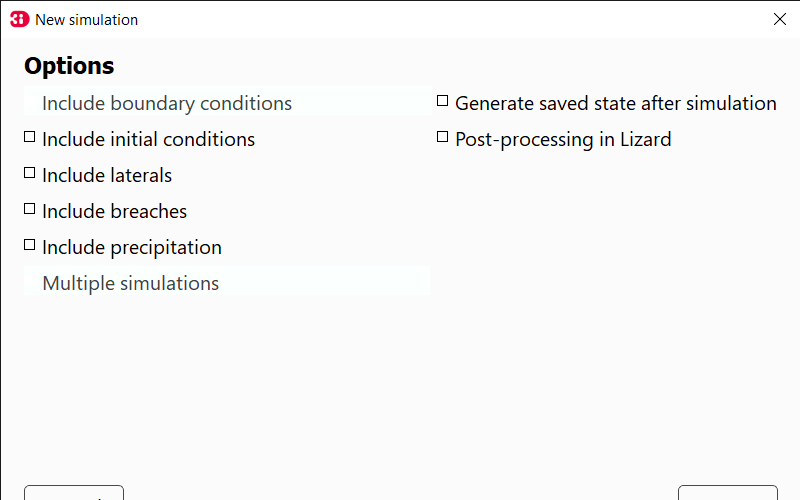
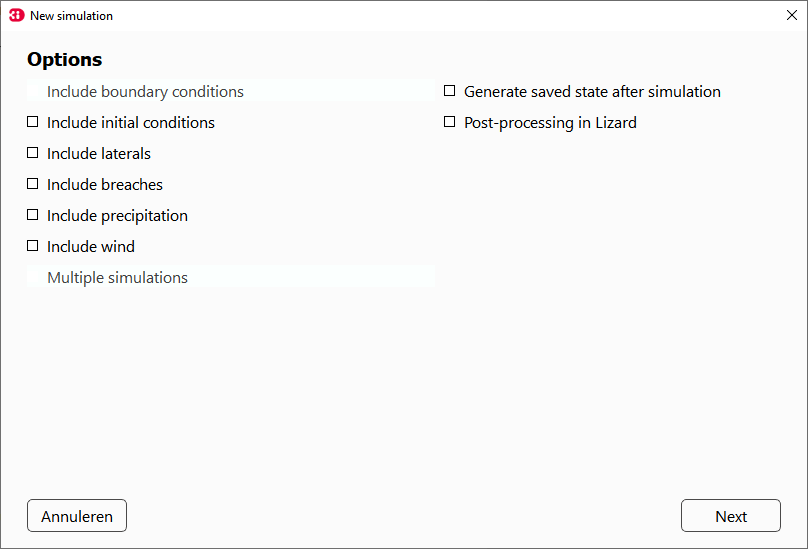
wind modeller interface beschreven voor de api client

diff --git a/source/d_qgis_plugin.rst b/source/d_qgis_plugin.rst
@@ -180,6 +180,9 @@ To select a breach to open in the model.
 **Precipitation**
 To define precipitation in the model.
 
+**Wind**
+To define wind in the model.
+
 **Multiple simulations** (becomes available when using either breaches or precipitation)
 To define multiple simulations with rainfall or breaches. Useful when simulating multiple events on the same model. 
 
@@ -190,7 +193,8 @@ To save the end result of the simulation as a saved state.
 Works only for users with this module. Enables storing results in the cloud, automated postprocessing of waterdepth and water levels maps, time of arrival, flood hazard rating and damage estimations (only available in the Netherlands at the moment). Contact us at servicedesk@nelen-schuurmans.nl if you like to use this option and don't have access yet.
 	
 
-When starting a new simulation, you need to define a name for the simulation. Other users within your organisation will see this. It can also be used to look up simulations later. 
+When starting a new simulation, you need to define a name for the simulation. Other users within your organisation will see this. It can also be used to look up simulations later.
+Adding tags can clarify for other users what your simulation calculated.
 
 .. figure:: image/d_qgisplugin_apiclient_new_simulation.png
     :alt: Choose new simulation 
@@ -251,7 +255,7 @@ When choosing the model to calculate in a breaches file was downloaded from the 
 
 
 **Precipitation**
-To define precipitation in the model 
+To define precipitation in the model. 
 
 **Multiple simulations** (becomes available when using either breaches or precipitation)
 To define multiple simulations with rainfall or breaches. Useful when simulating multiple events on the same model. 
@@ -265,11 +269,30 @@ When choosing a custom rain, the csv format is minutes, rainfall in mm for that 
 
 .. figure:: image/d_qgisplugin_apiclient_csv_format.png
     :alt: Example CSV
+	
+**Wind**
+To define wind in the model.
+
+You can choose between a constant or a custom type of wind. For both events an offset and a drag coefficient can be defined. The offset (start after) is the duration between the start of the simulation and the start of the wind event. The drag coefficient has a default value of 0,005. By increasing the drag coefficient, you increase the influence of the wind. 
+
+When choosing a constant wind event, the stop after, wind speed and direction must also be defined. The stop after is the duration between the start of the simulation and the end of the wind event. 
+The (meteorological) wind direction is defined as the direction from which the wind originates, measured in degrees clockwise from due north. Therefore, wind blowing toward the south has a direction of 0 degrees. You can either use the wind rose to depict which way the wind is blowing, or enter the direction manually. 
+
+.. figure:: image/d_qgisplugin_apiclient_wind_constant.png
+    :alt: Choose constant wind
+
+When choosing a custom wind, the CSV format is minutes, wind speed in m/s and wind direction, both for that time step. The interpolate options will gradually change the wind speed or wind direction throughout a time series. Without the interpolate functions the wind speed and wind direction will stay constant within the time steps and will make an abrupt transition to the next time step.
+
+.. figure:: image/d_qgisplugin_apiclient_wind_custom.png
+    :alt: Choose custom wind
+
+.. figure:: image/d_qgisplugin_apiclient_wind_csv.png
+    :alt: Example CSV wind
 
 After choosing all the settings check the overview, press Next and Add to Queue. The simulation will start up when there is a session available on the servers within your organisation.
 
 .. figure:: image/d_qgisplugin_apiclient_preview_simulation.png
-    :alt: Example CSV
+    :alt: Overview new simulation
 	
 **Post processing in Lizard**
 
